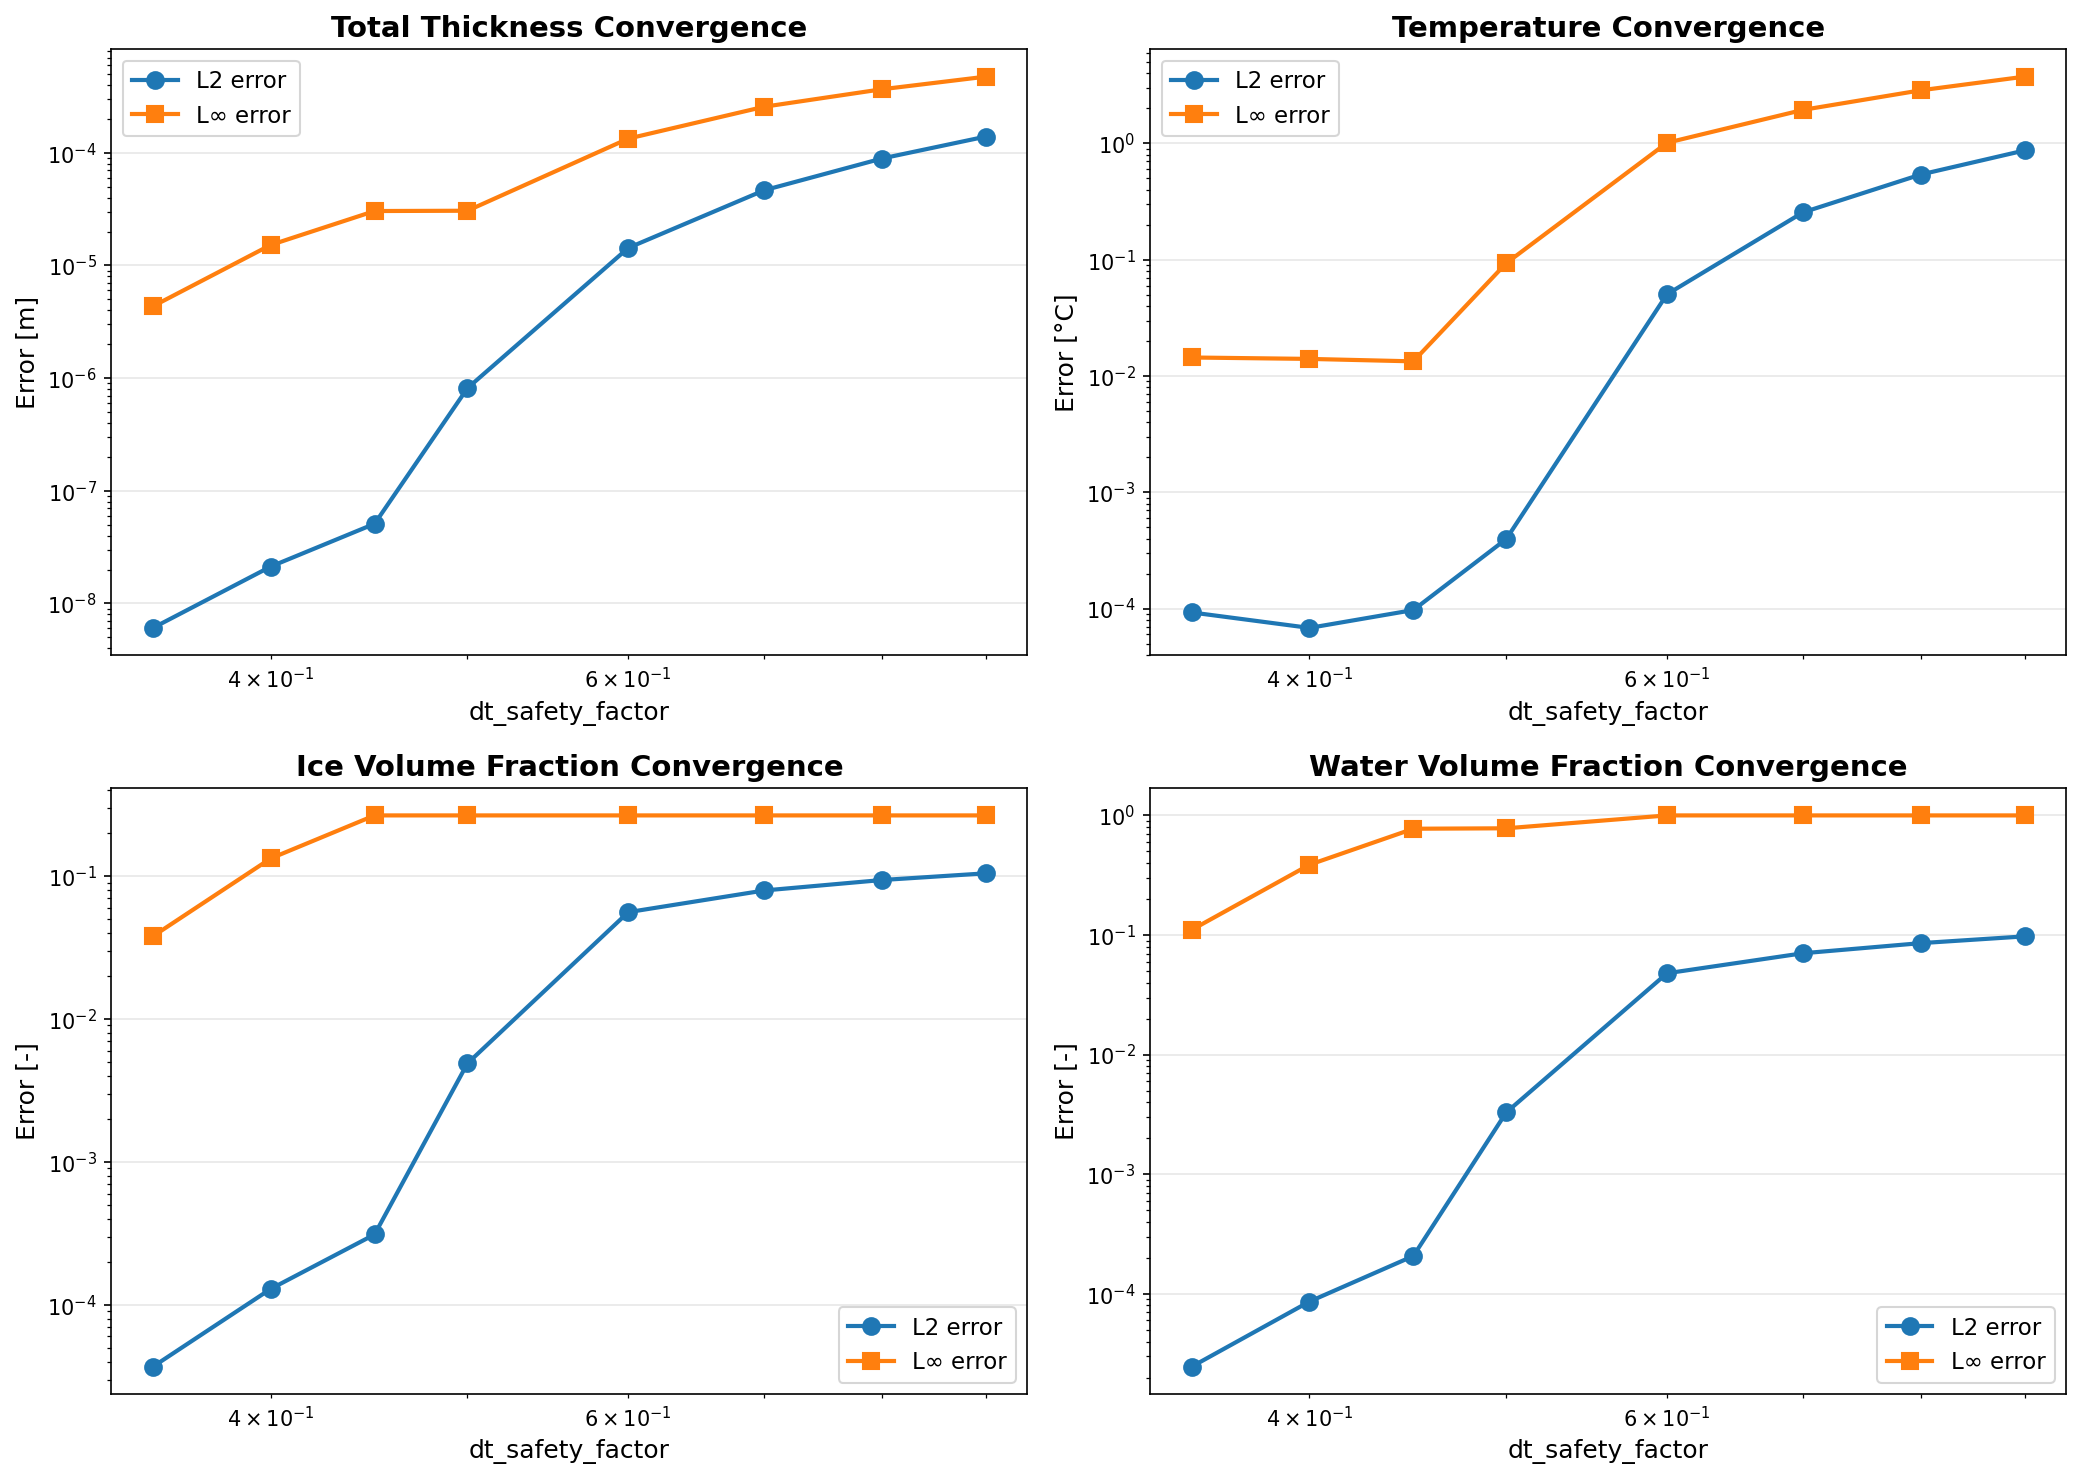
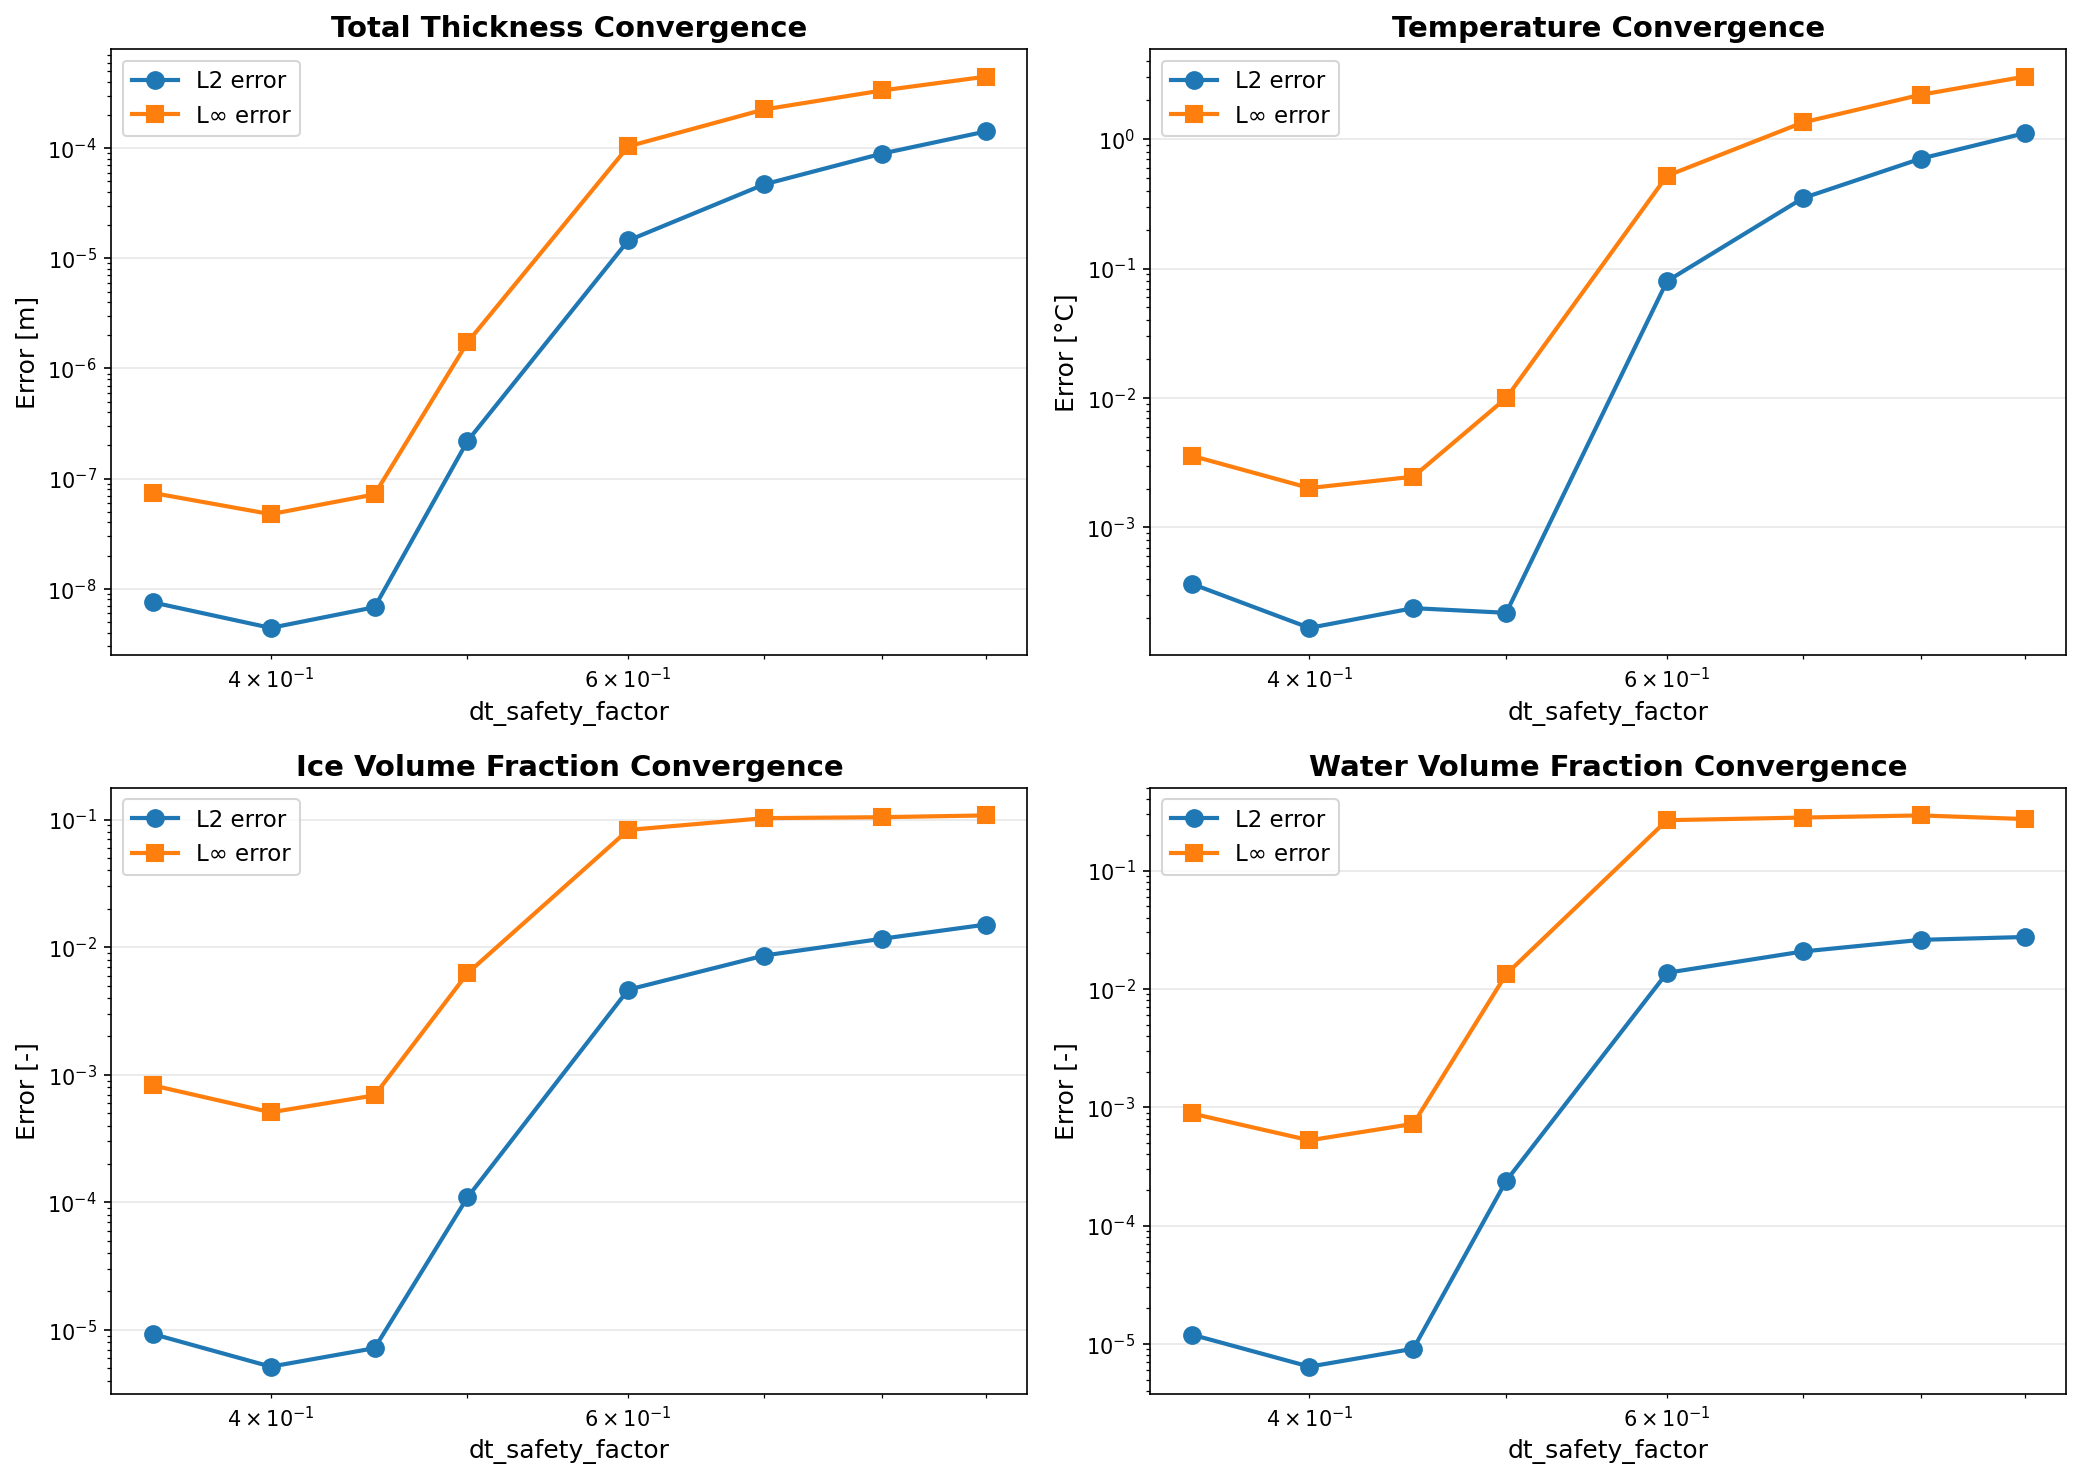
0.4 seems a good choice for time step safety factor

diff --git a/test_dt_convergence.py b/test_dt_convergence.py
@@ -282,12 +282,12 @@ def test_dt_convergence(data_file="55min_60deg_83%_12C.txt", n_layers=40, method
     
     # Test different safety factors (from finest to coarsest)
     # Include lower values to verify convergence
-    # Reference should be the finest (most accurate) solution
+    # Reference should be a reasonably accurate solution for convergence testing
     # Note: Lower safety factors = smaller time steps = longer computation time
     #       but better accuracy. Use 0.3-0.4 for thorough verification,
     #       or 0.4-0.45 if computation time is a concern.
     safety_factors = [0.3, 0.35, 0.4, 0.45, 0.5, 0.6, 0.7, 0.8, 0.9]
-    reference_sf = 0.3  # Reference safety factor (finest, most accurate)
+    reference_sf = 0.3  # Reference safety factor (faster while still accurate)
     
     print(f"Testing {len(safety_factors)} different dt_safety_factor values...")
     print(f"Safety factors: {safety_factors}")
